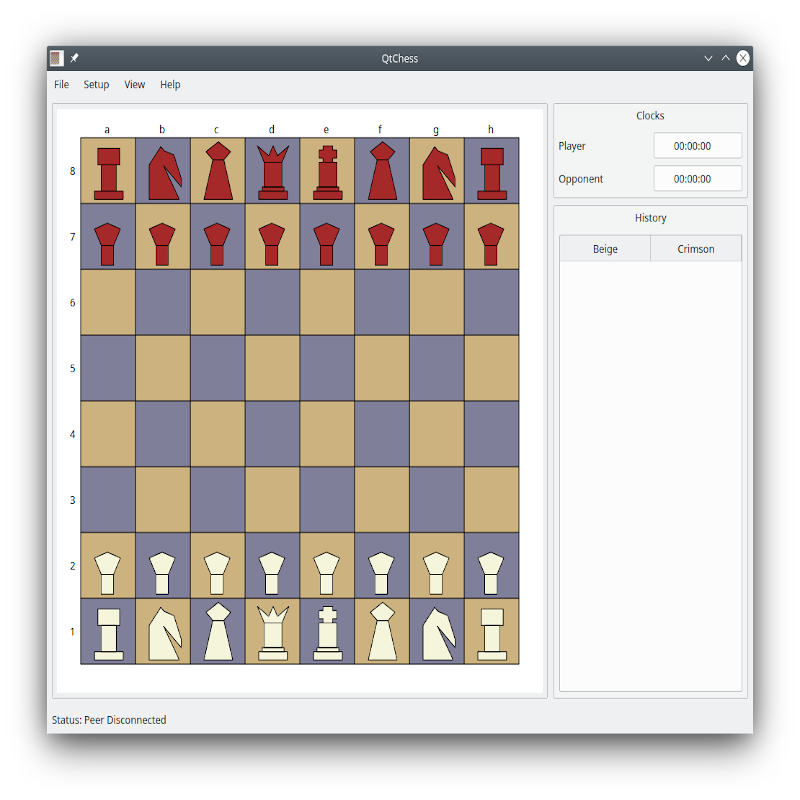
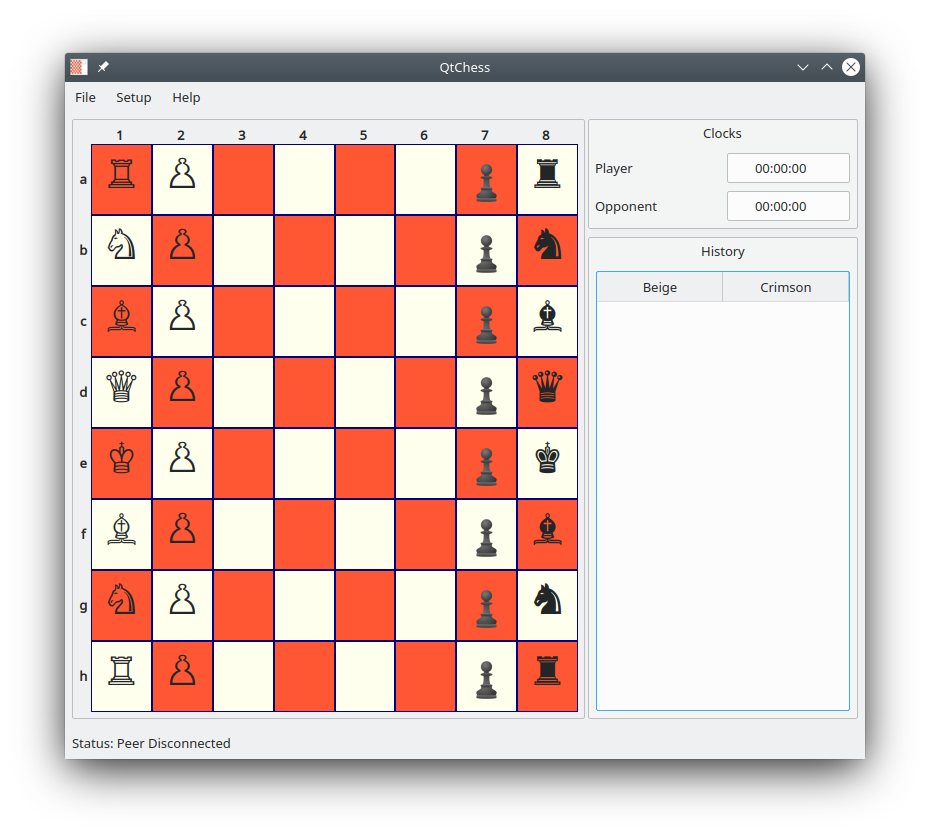
Algebraic notation.

diff --git a/Source/qtchess_gui_board.cc b/Source/qtchess_gui_board.cc
@@ -77,9 +77,37 @@ void qtchess_gui_board::add(QFrame *frame)
 
   layout->setSpacing(0);
 
+  for(int i = 0; i < 2; i++)
+    for(int j = 0; j < NSQUARES; j++)
+      {
+	char c[2];
+
+	if(i == 0)
+	  c[0] = static_cast<char> (97 + j);
+	else
+	  c[0] = static_cast<char> (49 + j);
+
+	c[1] = 0;
+
+	auto font(this->font());
+	auto label = new QLabel(QString("     %1     ").arg(c), this);
+
+	font.setBold(true);
+	label->setAlignment(Qt::AlignCenter);
+	label->setContentsMargins(0, 0, 0, 0);
+	label->setFont(font);
+	label->setSizePolicy(QSizePolicy::Minimum, QSizePolicy::Minimum);
+	label->setTextFormat(Qt::RichText);
+
+	if(i == 0)
+	  layout->addWidget(label, j + 1, 0);
+	else
+	  layout->addWidget(label, 0, j + 1);
+    }
+
   for(int i = 0; i < NSQUARES; i++)
     for(int j = 0; j < NSQUARES; j++)
-      layout->addWidget(m_labels[i][j], i, j);
+      layout->addWidget(m_labels[i][j], i + 1, j + 1);
 
   paint();
 }

diff --git a/Source/qtchess_validate.cc b/Source/qtchess_validate.cc
@@ -98,13 +98,17 @@ QString qtchess_validate::find_departure(const int X1,
 	}
 
   if(fcount > 0 && rcount > 0)
-    snprintf(departure, sizeof(departure), "%c%d", (char) (97 + X1), Y1 + 1);
+    snprintf(departure,
+	     sizeof(departure),
+	     "%c%d",
+	     static_cast<char> (97 + X1),
+	     Y1 + 1);
   else if(fcount > 0)
-    departure[0] = (char) (97 + X1);
+    departure[0] = static_cast<char> (97 + X1);
   else if(rcount > 0)
     snprintf(departure, sizeof(departure), "%d", Y1 + 1);
   else
-    departure[0] = (char) (97 + X1);
+    departure[0] = static_cast<char> (97 + X1);
 
   return departure;
 }

diff --git a/Source/qtchess_gui.cc b/Source/qtchess_gui.cc
@@ -78,12 +78,12 @@ void qtchess_gui::add_history_move(const struct move_s &current_move,
   char insert_x[3];
   char to_let[2];
 
-  from_position[0] = (char) (97 + current_move.m_y1);
+  from_position[0] = static_cast<char> (97 + current_move.m_y1);
   memset(from_position, 0, sizeof(from_position));
   memset(hist, 0, sizeof(hist));
   memset(insert_x, 0, sizeof(insert_x));
   memset(to_let, 0, sizeof(to_let));
-  to_let[0] = (char) (97 + current_move.m_y2);
+  to_let[0] = static_cast<char> (97 + current_move.m_y2);
 
   if(current_move.m_promoted)
     {
